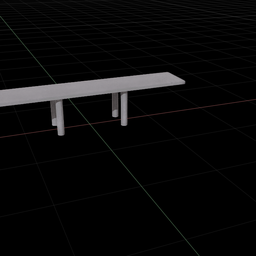
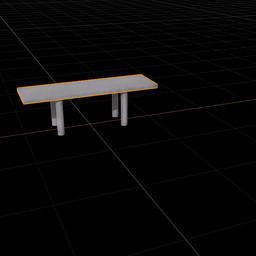
p2w

Changed region(s): [[0.0, 0.3125, 0.3438, 0.4375], [0.3438, 0.2812, 0.7188, 0.3438], [0.3438, 0.3438, 0.5938, 0.375]]

diff --git a/source/isaaclab_tasks/isaaclab_tasks/direct/aloha/aloha_env.py b/source/isaaclab_tasks/isaaclab_tasks/direct/aloha/aloha_env.py
@@ -135,17 +135,17 @@ class WheeledRobotEnvCfg(DirectRLEnvCfg):
         filter_prim_paths_expr=["/World/envs/env_.*"],
     )
 
-    # table = sim_utils.UsdFileCfg(
-    #     usd_path=Asset_paths_manager.table_usd_path,
-    #     rigid_props=sim_utils.RigidBodyPropertiesCfg(
-    #         disable_gravity=True,
-    #         kinematic_enabled=True,
-    #         rigid_body_enabled=True,
-    #     ),
-    #     collision_props=sim_utils.CollisionPropertiesCfg(
-    #         collision_enabled=True,
-    #     ),
-    # )
+    table = sim_utils.UsdFileCfg(
+        usd_path=Asset_paths_manager.table_usd_path,
+        rigid_props=sim_utils.RigidBodyPropertiesCfg(
+            disable_gravity=True,
+            kinematic_enabled=True,
+            rigid_body_enabled=True,
+        ),
+        collision_props=sim_utils.CollisionPropertiesCfg(
+            collision_enabled=True,
+        ),
+    )
 
     # Конфигурация миски (цели)
     bowl = sim_utils.UsdFileCfg(
@@ -230,9 +230,9 @@ class WheeledRobotEnv(DirectRLEnv):
         self.history_index = 0
         self.history_len = torch.zeros(self.num_envs, device=self.device)
         self._step_update_counter = 0
-        self.mean_radius = 0.7
+        self.mean_radius = 1
         self.max_angle_error = torch.pi / 6
-        self.cur_angle_error = torch.pi / 6
+        self.cur_angle_error = torch.pi / 10
         self.warm = True
         self._obstacle_update_counter = 0
         self.has_contact = torch.full((self.num_envs,), True, dtype=torch.bool, device=self.device)
@@ -308,12 +308,12 @@ class WheeledRobotEnv(DirectRLEnv):
             orientation=(0.0, 0.0, 0.0, 1.0),
         )
         # Спавн стола
-        # spawn_from_usd(
-        #     prim_path="/World/envs/env_.*/Table",
-        #     cfg=self.cfg.table,
-        #     translation=(-4.5, 0.0, 0.0),  # Стол в центре локальной системы
-        #     orientation=(0.7071, 0.0, 0.0, 0.7071),
-        # )
+        spawn_from_usd(
+            prim_path="/World/envs/env_.*/Table",
+            cfg=self.cfg.table,
+            translation=(-4.5, 0.0, 0.0),  # Стол в центре локальной системы
+            orientation=(0.7071, 0.0, 0.0, 0.7071),
+        )
         goal_pos = (-4.5, 0, 0.65)  # z=0.8 для поверхности стола
         spawn_from_usd(
             prim_path="/World/envs/env_.*/Bowl",
@@ -326,7 +326,7 @@ class WheeledRobotEnv(DirectRLEnv):
         for env_id in range(self.cfg.scene.num_envs):
             for prim_path in [
                 f"/World/envs/env_{env_id}/Kitchen",
-                # f"/World/envs/env_{env_id}/Table",
+                f"/World/envs/env_{env_id}/Table",
                 f"/World/envs/env_{env_id}/Bowl",
             ]:
                 prim = stage.GetPrimAtPath(prim_path)
@@ -418,7 +418,7 @@ class WheeledRobotEnv(DirectRLEnv):
             self._actions[:, 1] = angular_speed / 2.5
         else:
             linear_speed = 0.5*(self._actions[:, 0] + 1.0) # [num_envs], всегда > 0
-            angular_speed = 2.5*self._actions[:, 1]  # [num_envs], оставляем как есть от RL
+            angular_speed = 2*self._actions[:, 1]  # [num_envs], оставляем как есть от RL
         # print("vel is: ", linear_speed, angular_speed)
         self._left_wheel_vel = (linear_speed - (angular_speed * L / 2)) / r
         self._right_wheel_vel = (linear_speed + (angular_speed * L / 2)) / r
@@ -436,9 +436,9 @@ class WheeledRobotEnv(DirectRLEnv):
 
     def _get_rewards(self) -> torch.Tensor:
         lin_vel = torch.norm(self._robot.data.root_lin_vel_w[:, :2], dim=1)
-        lin_vel_reward = lin_vel * 0.005
+        lin_vel_reward = lin_vel * 1
         ang_vel = torch.abs(self._robot.data.root_ang_vel_w[:, 2])
-        ang_vel_reward = ang_vel * 0.005
+        ang_vel_reward = ang_vel * 1
         root_pos_w = self._robot.data.root_pos_w[:, :2]
         # print("root_pos_w ", root_pos_w)
         distance_to_goal = torch.linalg.norm(self._desired_pos_w[:, :2] - root_pos_w, dim=1)
@@ -488,11 +488,15 @@ class WheeledRobotEnv(DirectRLEnv):
             IL_reward = 0.3
         time_out = self.is_time_out(self.my_episode_lenght-1)
         time_out_penalty = -5 * time_out.float()
-        
-        reward = (-0.1 + goal_reached_reward + contact_penalty + time_out_penalty)
+
+        vel_punish = -5 * (lin_vel_reward + ang_vel_reward)
+        mask = ~goal_reached
+        vel_punish[mask] = 0
+        reward = (-0.07 + goal_reached_reward + contact_penalty + time_out_penalty + vel_punish)
         if torch.any(has_contact) or torch.any(goal_reached) or torch.any(time_out):
             sr = self.update_success_rate()
-            # print("sr: ", sr)
+
+        #     print("sr: ", sr)
         #     print("reward ", reward)
         #     print("goal_reached ", goal_reached)
         #     print("has_contact ", has_contact)
@@ -775,7 +779,7 @@ class WheeledRobotEnv(DirectRLEnv):
         self._desired_pos_w[env_ids, 2] = 0.6
         if self.tensorboard_step > 500:
             self.tensorboard_step = 0
-            print("Custom/success_rate", self.success_rate)
+            print("Custom/success_rate", self.success_rate, self.sr_stack_capacity)
             print("Custom/counter", self._step_update_counter)
         # self.logger.record("Custom/sucess_rate", self.success_rate)
         # self.logger.record("Custom/radius", self.mean_radius)
@@ -824,11 +828,12 @@ class WheeledRobotEnv(DirectRLEnv):
         k = 2 if self.cur_angle_error >= self.max_angle_error and self.mean_radius > self.second_try else 1
         base = k*self.my_episode_lenght
         # print("self.success_rate ", self.success_rate)
-        if self.warm and self.cur_step >= 2048:
+        if self.warm and self.cur_step >= 1500:
             self.warm = False
-            self.mean_radius = 0.1
+            self.mean_radius = 0
             self.cur_angle_error = 0
             self._step_update_counter = 0
+            print(f"end worm stage r: {round(self.mean_radius, 2)}, a: {round(self.cur_angle_error, 2)}")
         elif not self.warm and self._step_update_counter >= base and not self.turn_on_controller and self.sr_stack_full:
             if self.success_rate >= 90:
                 self.success_ep_num += 1

diff --git a/source/isaaclab_tasks/isaaclab_tasks/direct/aloha/asset_manager.py b/source/isaaclab_tasks/isaaclab_tasks/direct/aloha/asset_manager.py
@@ -5,7 +5,7 @@ class Asset_paths:
     def __init__(self):
         print("Текущая директория:", current_dir)
         self.kitchen_usd_path = new_path = os.path.join(current_dir, "source/isaaclab_assets/data/aloha_assets", "scenes/scenes_sber_kitchen_for_BBQ/kitchen_new_simple.usd")
-        self.table_usd_path =  new_path = os.path.join(current_dir, "source/isaaclab_assets/data/aloha_assets", "scenes/scenes_sber_kitchen_for_BBQ/table/table2.usd")
+        self.table_usd_path =  new_path = os.path.join(current_dir, "source/isaaclab_assets/data/aloha_assets", "scenes/scenes_sber_kitchen_for_BBQ/table/table_new.usd")
         self.bowl_usd_path =  new_path = os.path.join(current_dir, "source/isaaclab_assets/data/aloha_assets", "objects/bowl.usd")
         self.aloha_usd_path =  new_path = os.path.join(current_dir, "source/isaaclab_assets/data/aloha_assets", "aloha/ALOHA_with_sensor_02.usd")
         self.chair_usd_path =  new_path = os.path.join(current_dir, "source/isaaclab_assets/data/aloha_assets", "scenes/obstacles/chair2.usd")
